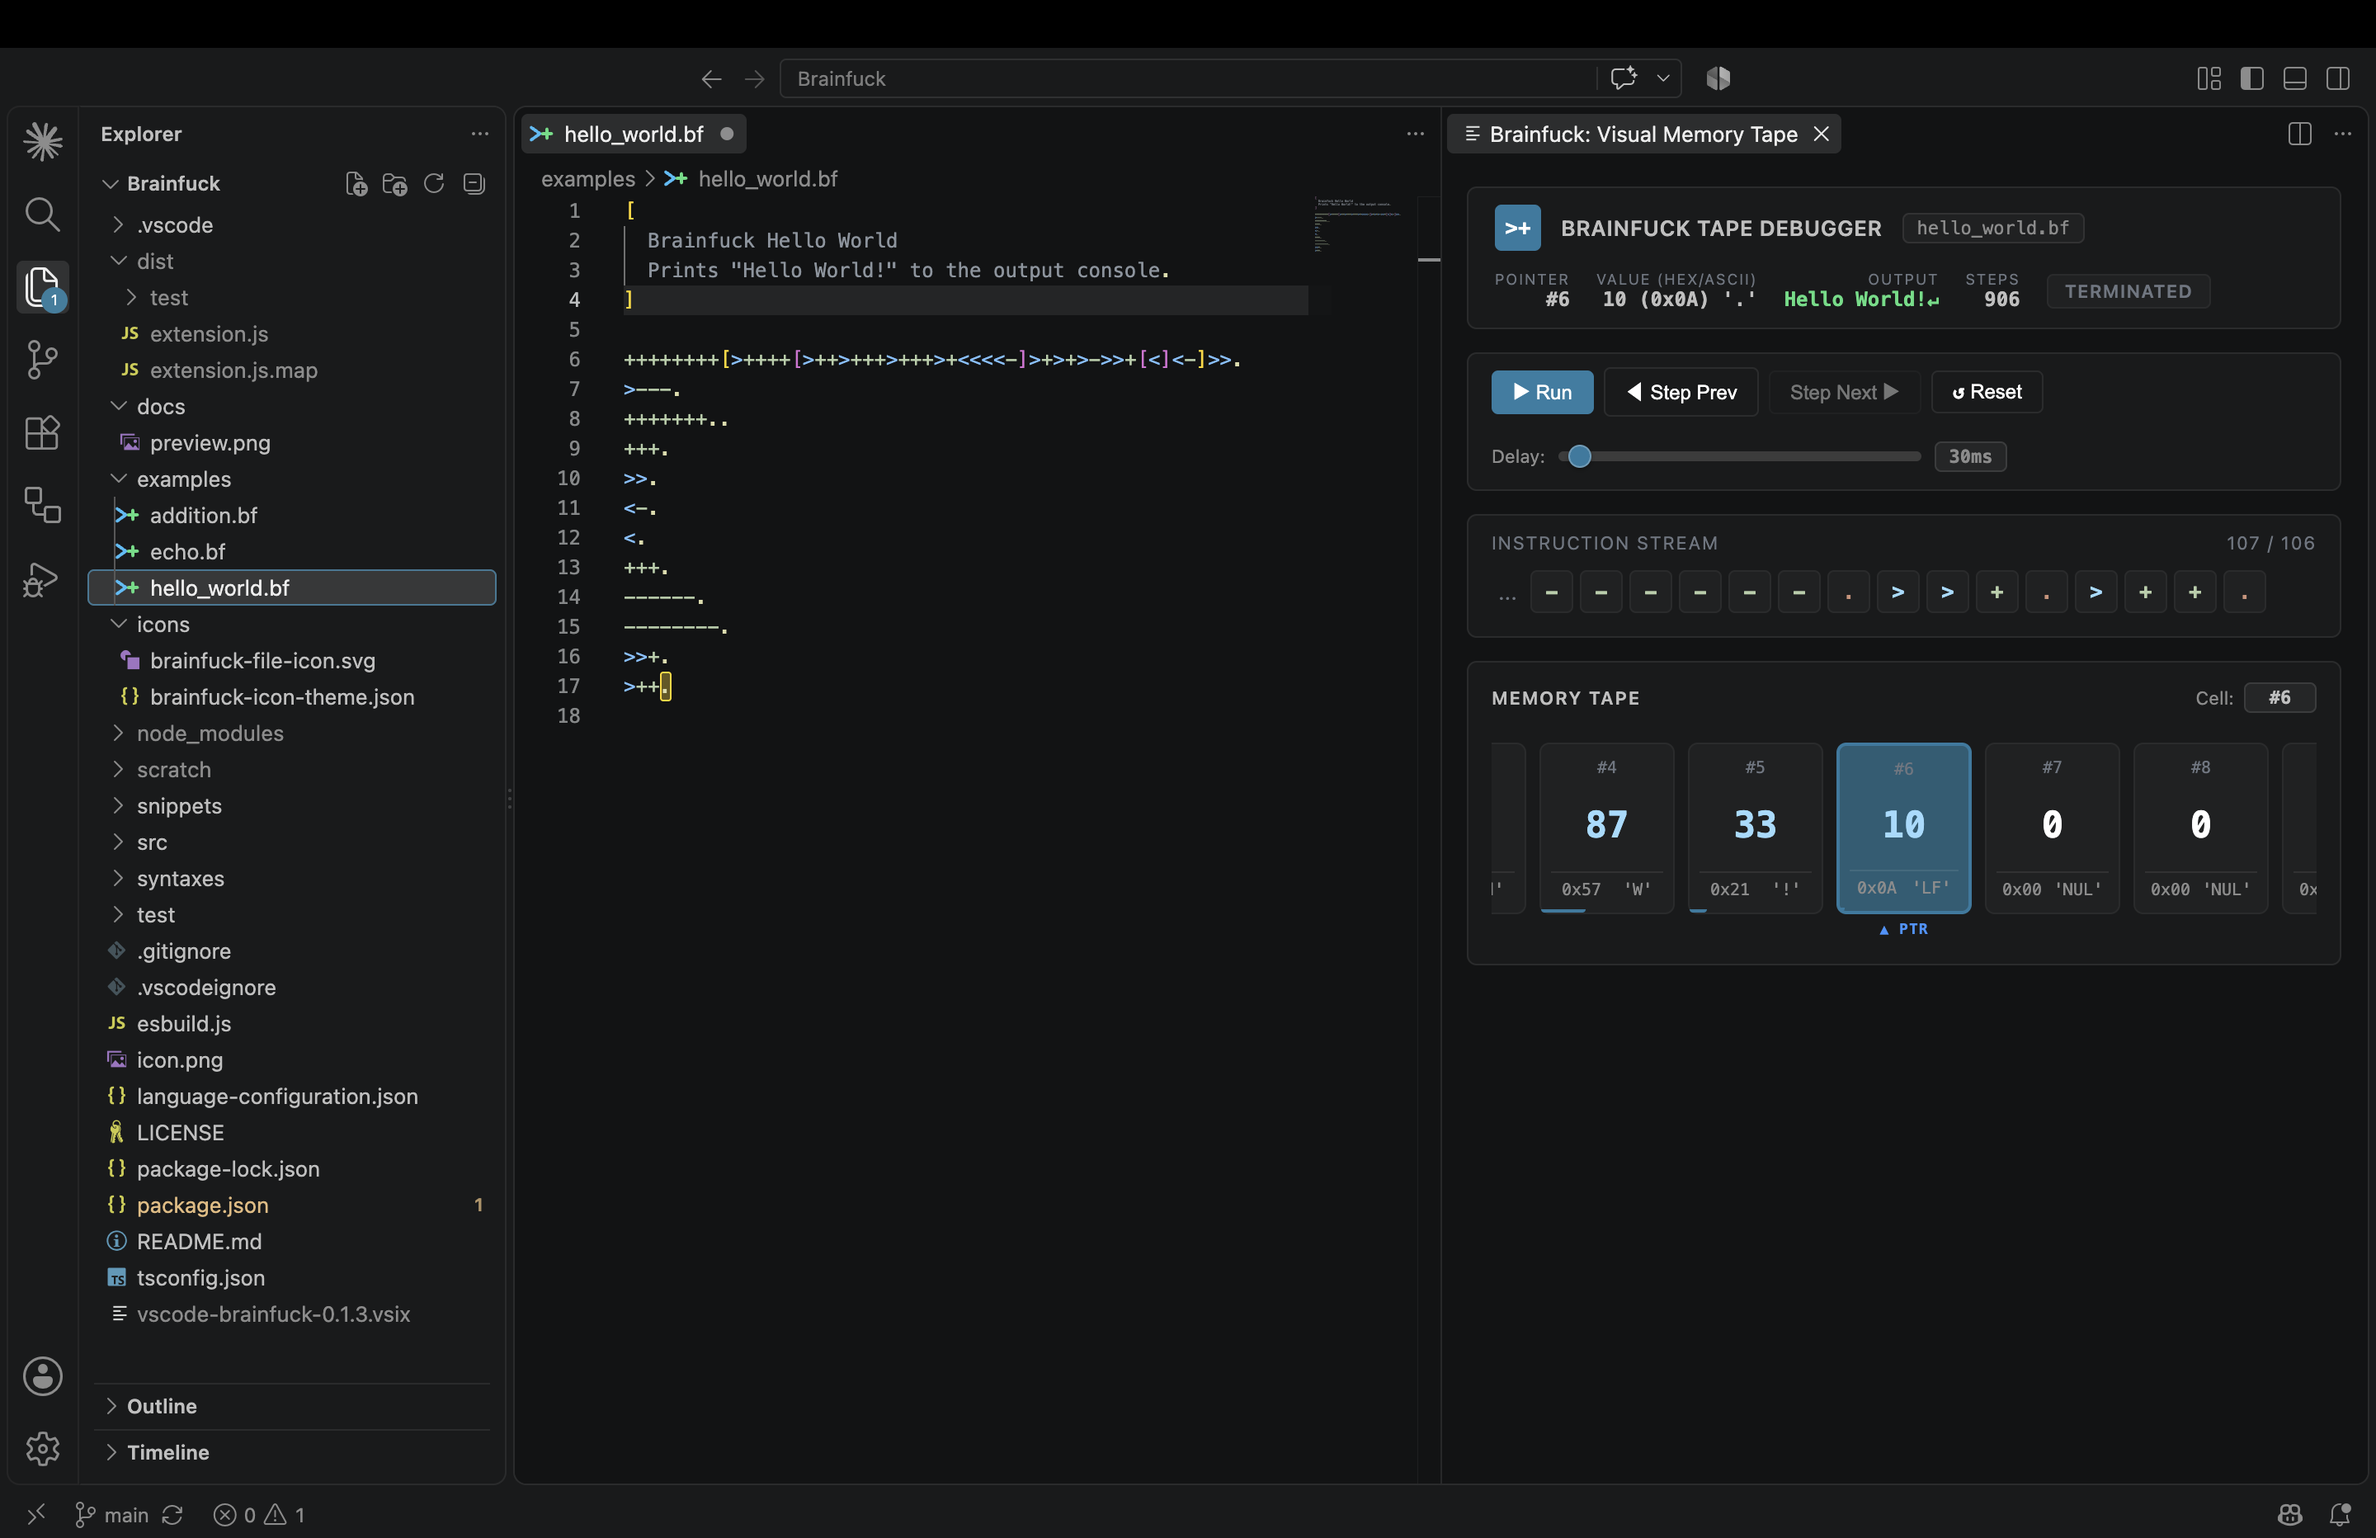
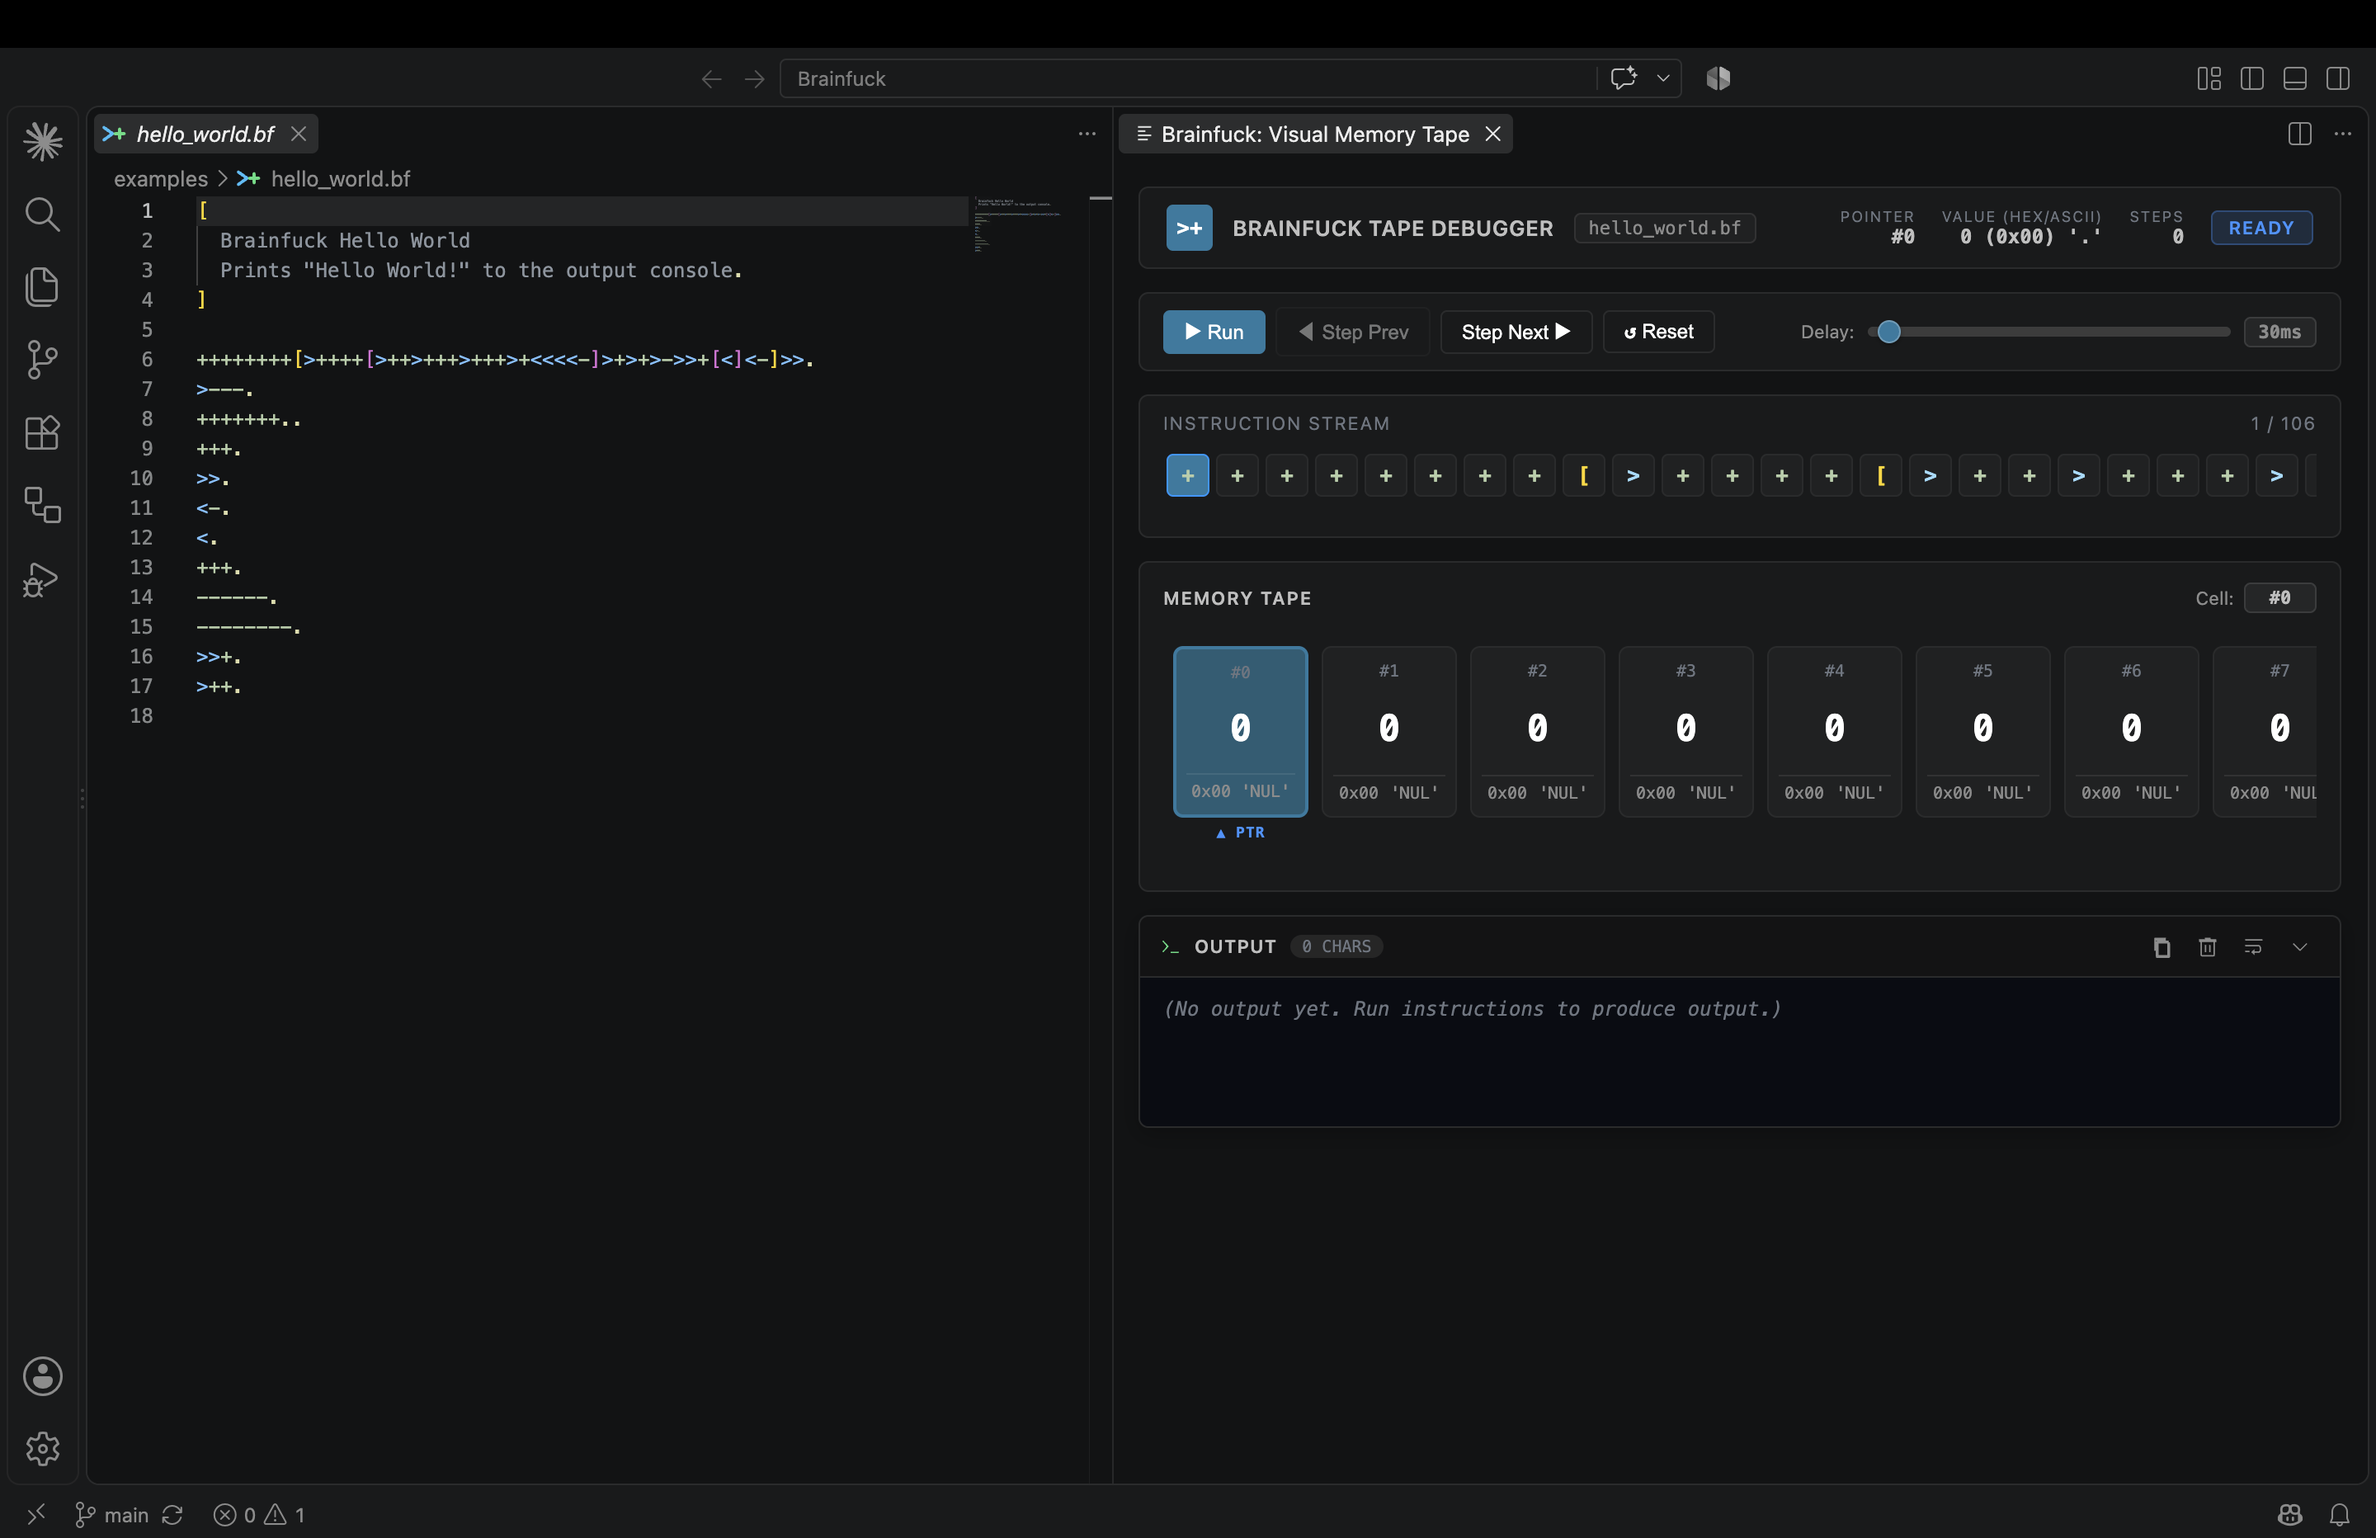
chore(release): bump version to v0.1.6 and update preview documentation

diff --git a/src/extension.ts b/src/extension.ts
@@ -64,10 +64,11 @@ export function activate(context: vscode.ExtensionContext) {
 
       interpreterStatusBarItem.text = '$(chip) Brainfuck (Built-in)';
 
+      const extVersion = context.extension?.packageJSON?.version || '0.1.6';
       const tooltip = new vscode.MarkdownString('', true);
       tooltip.isTrusted = true;
       tooltip.appendMarkdown('### Brainfuck Interpreter (Built-in)\n');
-      tooltip.appendMarkdown(`- **Runtime:** Zero-dependency Built-in Engine (v0.1.5)\n`);
+      tooltip.appendMarkdown(`- **Runtime:** Zero-dependency Built-in Engine (v${extVersion})\n`);
       tooltip.appendMarkdown(`- **Memory Tape:** ${tapeSize.toLocaleString()} cells (Uint8Array)\n`);
       tooltip.appendMarkdown(`- **Cell Wrapping:** ${cellWrapping ? '8-bit Wrapping (0-255)' : 'Clamped [0, 255]'}\n`);
       tooltip.appendMarkdown(`- **Max Step Limit:** ${maxSteps.toLocaleString()} steps\n\n`);
@@ -107,7 +108,7 @@ export function activate(context: vscode.ExtensionContext) {
         },
         {
           label: '$(circuit-board) Open Visual Memory Tape Debugger',
-          description: 'Step-by-step visual inspection, time-travel, and STDOUT console',
+          description: 'Step-by-step visual inspection, time-travel, and terminal output console',
           action: 'tape'
         },
         {

diff --git a/README.md b/README.md
@@ -2,7 +2,7 @@
 
 > **The all-in-one, zero-dependency Brainfuck development studio & visual debugger for VS Code.**
 
-[![Version](https://img.shields.io/badge/version-0.1.5-blue.svg)](package.json)
+[![Version](https://img.shields.io/badge/version-0.1.6-blue.svg)](package.json)
 [![License: MIT](https://img.shields.io/badge/License-MIT-green.svg)](LICENSE)
 [![Dependencies: 0](https://img.shields.io/badge/dependencies-0-success.svg)](#)
 [![VS Code](https://img.shields.io/badge/VS%20Code-%5E1.85.0-007ACC.svg)](https://code.visualstudio.com/)
@@ -44,7 +44,7 @@ High-performance, smooth memory visualizer built with native VS Code design toke
   - **Reset (`R`):** Reset tape memory, pointer, and output console.
 - **Bidirectional Editor Sync:** The currently executing instruction in the editor is highlighted with a gold focus indicator in real-time.
 - **Direct Cell Editing:** Click any memory cell on the tape to directly modify its value (0 - 255).
-- **Dedicated Terminal STDOUT Console:** Full-width collapsible output console supporting multi-line streams, monospace ASCII rendering, auto-scroll, 1-click clipboard copy (`📋 Copy`), buffer wipe (`🗑 Clear`), line wrap toggle (`↩ Wrap`), and adjustable panel height.
+- **Dedicated Terminal Output Console:** Full-width collapsible output console styled in native VS Code terminal design, supporting multi-line streams, monospace ASCII rendering, auto-scroll, 1-click clipboard copy, buffer wipe, word wrap toggle, and adjustable panel height.
 
 ### 4. 🚀 Output Channel Runner
 - Execute Brainfuck code instantly via the editor title bar Run button or the command palette (`Brainfuck: Run Code in Output Channel`).
@@ -87,7 +87,7 @@ High-performance, smooth memory visualizer built with native VS Code design toke
 - **`R`**: Reset memory tape, pointer, and output
 - **`Speed: [...]ms`**: Click to type custom execution delay or drag slider
 - **`Cell: [#...]`**: Click to directly jump to any memory cell (`0` – `29999`)
-- **`Output Console`**: Click the `#statOutputPill` header to jump to console; use **`📋 Copy`**, **`🗑 Clear`**, **`↩ Wrap`**, and **`▾ Collapse`** to control terminal STDOUT.
+- **`Output Console`**: Native VS Code terminal style with 1-click **Copy**, **Clear**, **Wrap**, and **Collapse** action icons.
 
 ---
 
@@ -98,7 +98,7 @@ High-performance, smooth memory visualizer built with native VS Code design toke
 | `brainfuck.tapeSize` | `integer` | `30000` | Memory tape capacity in cells. |
 | `brainfuck.cellWrapping` | `boolean` | `true` | 8-bit cell wrapping (`0 - 1 = 255`, `255 + 1 = 0`). |
 | `brainfuck.defaultRunDelayMs` | `integer` | `30` | Default execution delay in milliseconds between steps during auto-run. |
-| `brainfuck.debugger.outputHeight` | `integer` | `140` | Maximum height (in pixels) for the terminal STDOUT output console in the visual debugger. |
+| `brainfuck.debugger.outputHeight` | `integer` | `140` | Maximum height (in pixels) for the terminal output console in the visual debugger. |
 | `brainfuck.debugger.syncEditorOnStep` | `boolean` | `true` | Highlight the active instruction in the editor during debugger execution. |
 | `brainfuck.debugger.visibleCells` | `integer` | `50` | Number of cells displayed in the memory tape conveyor viewport. |
 | `brainfuck.execution.clearPreviousOutput` | `boolean` | `false` | Clear the Brainfuck Output channel before each execution run. |
